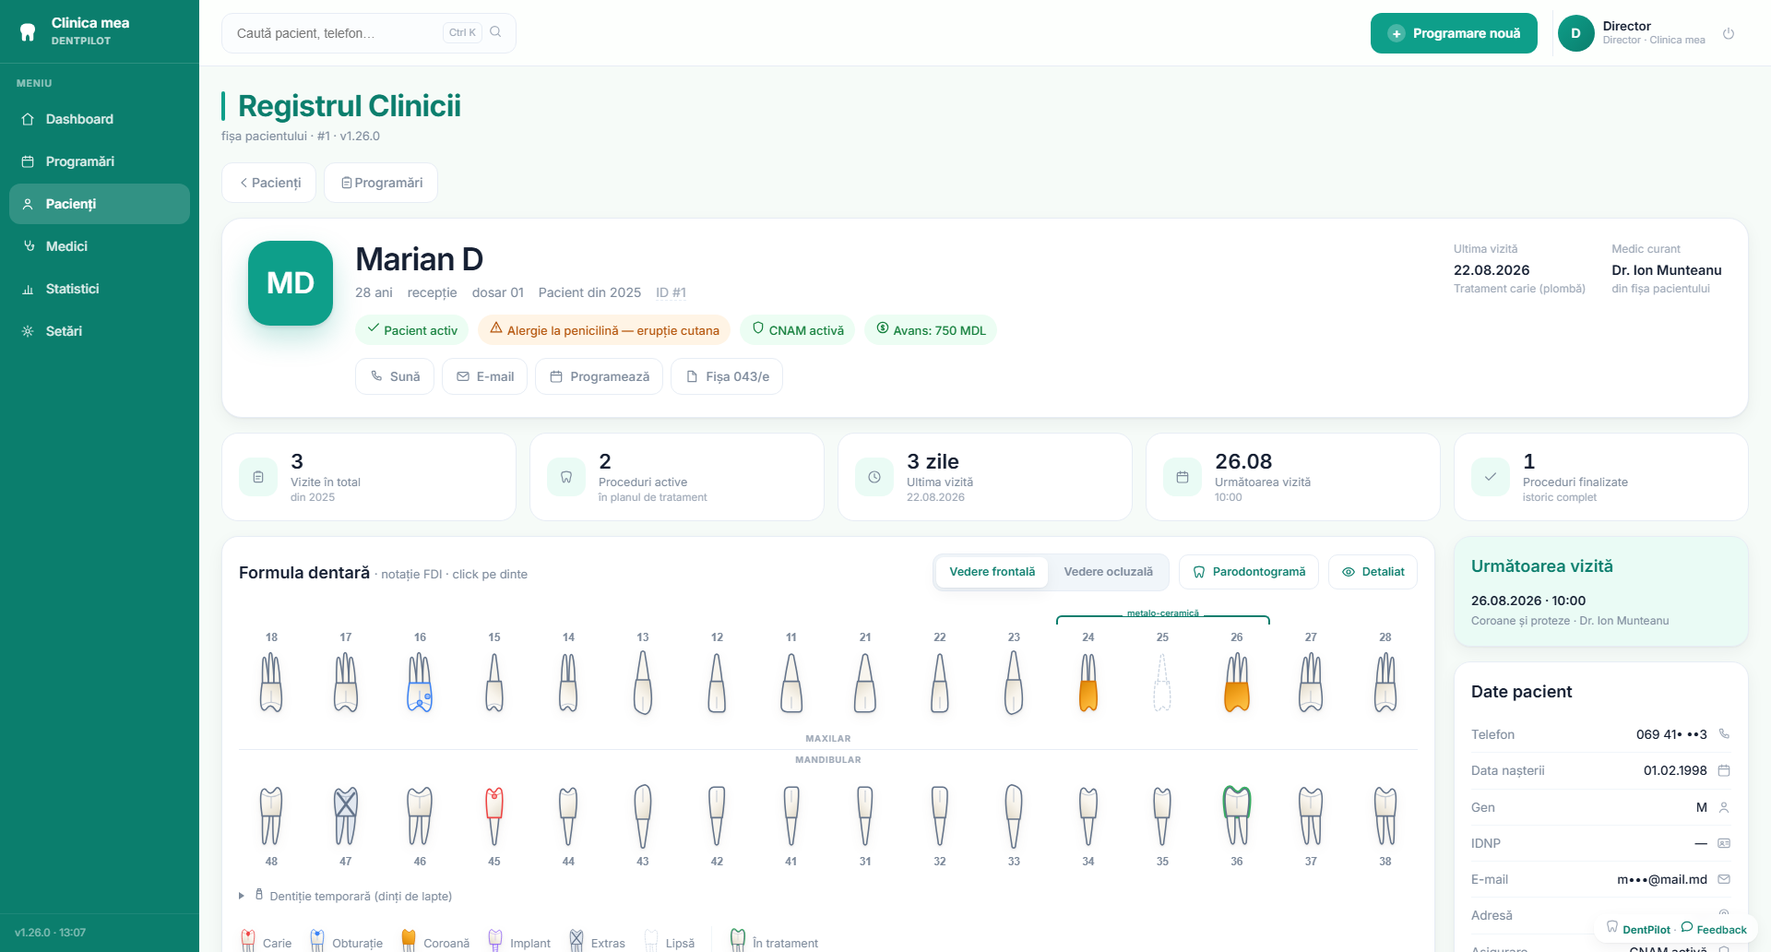
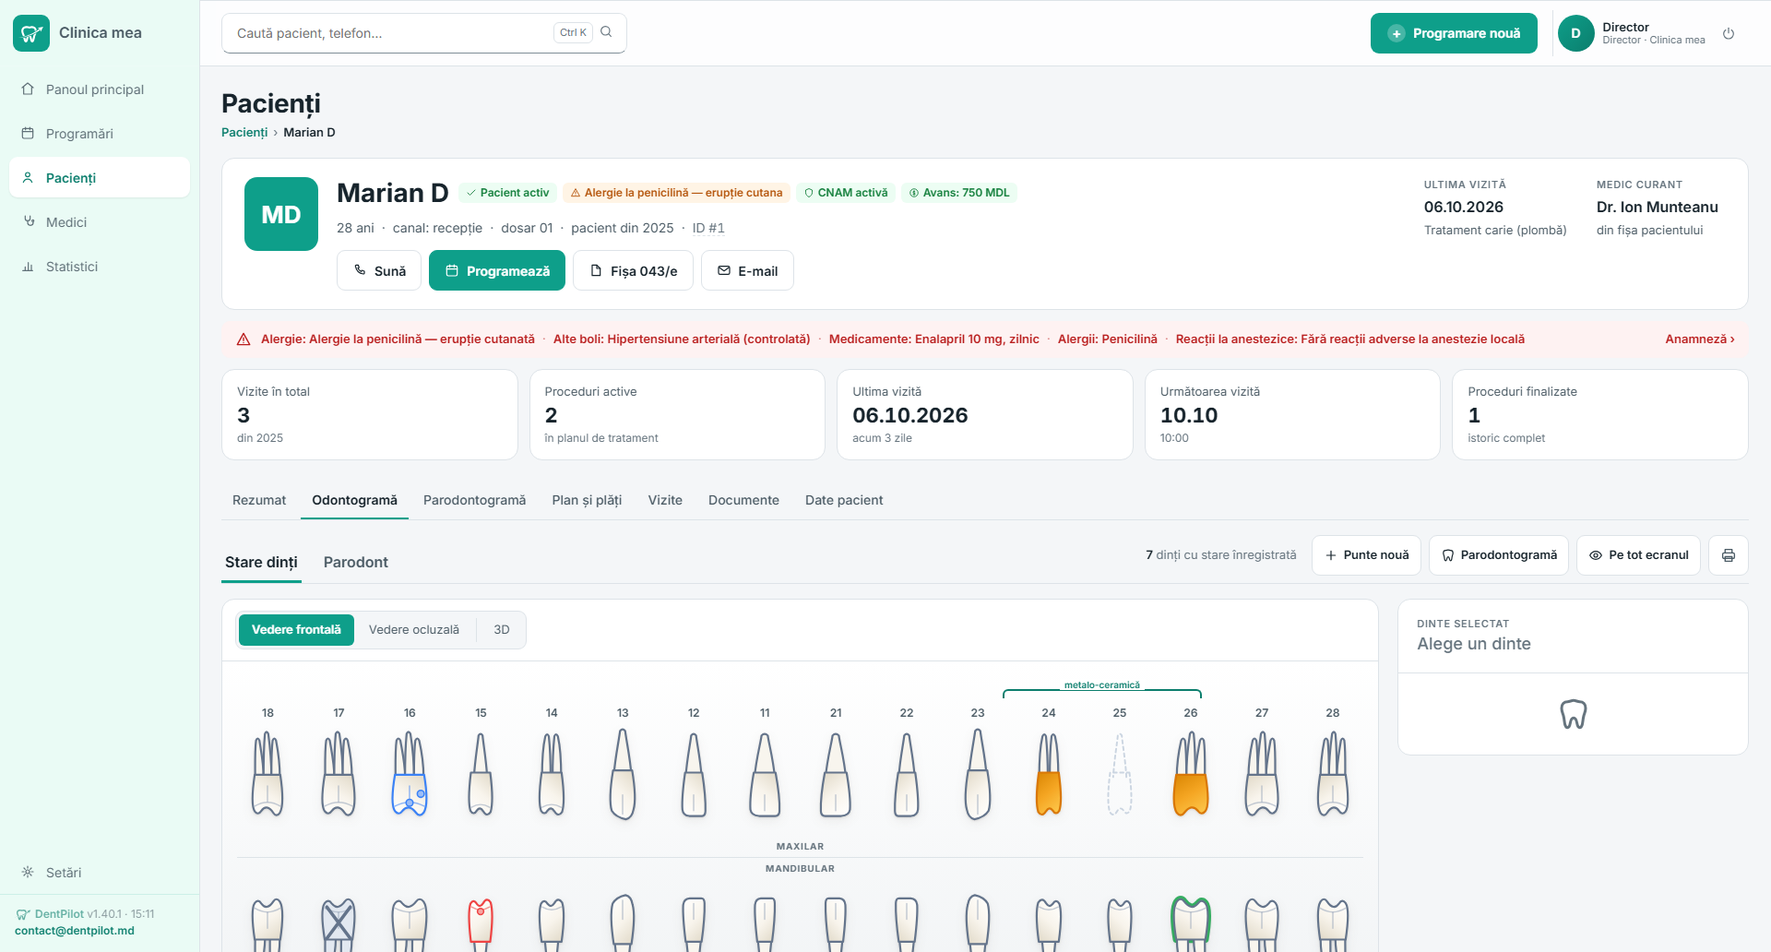
docs(readme): the public face catches up with 1.40.1 - new screenshots, data in ProgramData, the licence, the signed installer, DentPilot 2.0
The README showed v1.26.0 screenshots (25.08) and described the layout from
before 21.09: SQLite "next to the exe", a per-user installer that rejects
Program Files, "no account, no subscription", an hour-long demo, a dashboard
with tiles and sparklines that the 08.10 redesign removed.

- screenshots: all eight retaken on v1.40.1 by design/public-shots/stand.py
  (same two-month seed); the card is shot on its odontogram tab (the bridge
  the caption talks about), the list with its preview open
- desktop edition: Program Files + ProgramData, per-machine signed wizard
  shipped zipped, persistent window profile, single instance, update through
  the signed installer behind UAC (checked before the prompt), update server
- new section: licence and the clinic account (offline-checked signed file,
  trial month, 14 days of grace, read-only rather than locked, cloud/)
- dashboard, card tabs, statuses (programata until the call), stats screen,
  Excel export, live demo 30 min / pool of 12, React client in the stack,
  mutate.py next to test_structure, the client's own checks

README does not ship in the exe: no release needed.

diff --git a/README.md b/README.md
@@ -6,21 +6,26 @@ with an odontogram, treatment plans, an anamnesis questionnaire, payments and do
 and the medical form the Ministry of Health asks for (**043/e**) prints already filled in
 from the card.
 
-Two editions from one codebase: a **desktop app** (`DentPilot.exe`, SQLite next to the exe,
-one clinic, one Windows machine) and a **cloud** stack (Docker + PostgreSQL, one VPS
-serving many clinics). The desktop edition is the one clinics actually install — there is
-no account, no subscription and no server holding patient data.
+Two editions from one codebase: a **desktop app** (`DentPilot.exe`, SQLite in the clinic's
+own data folder, one clinic, one Windows machine — other workstations open the same journal
+over the clinic's network) and a **cloud** stack (Docker + PostgreSQL, one VPS serving many
+clinics). The desktop edition is the one clinics actually install. It runs on a monthly or
+yearly licence kept by a small separate service ([`cloud/`](cloud/README.md)) that knows
+the clinic, its computers and its payments and nothing about its patients: no server ever
+holds patient data.
 
 > Screenshots and `clinic.json` in this repo use synthetic data — invented patients,
 > invented doctors. Phone numbers, e-mail addresses and national ID numbers are masked in
-> the screenshots. One `clinic.json` = one clinic. The shots below are **v1.26.0**, taken
+> the screenshots. One `clinic.json` = one clinic. The shots below are **v1.40.1**, taken
 > on a staged clinic with two months of work behind it.
 
 ## Screenshots
 
-**Patient card** — odontogram, treatment plan, anamnesis and the activity feed, with
-medical alerts and insurance pinned in the header. Here 25 is missing and 24/26 carry the
-abutments of a metal-ceramic **bridge**, drawn as the brace a dentist would put on paper:
+**Patient card** — one header for the whole card (alerts, insurance, balance, the risks
+from the anamnesis in a red strip, the next visit) over seven tabs: summary, odontogram,
+periodontal chart, plan and payments, visits, documents, patient data. On the odontogram
+tab here 25 is missing and 24/26 carry the abutments of a metal-ceramic **bridge**, drawn
+as the brace a dentist would put on paper:
 
 ![Patient card](screenshots/patient-card.png)
 
@@ -31,16 +36,18 @@ the formula (`Co Cor` / `D A` / `Co Cor`) and as its own line under the grid:
 
 <img src="screenshots/fisa-043e.png" width="620" alt="Printed 043/e form">
 
-**Dashboard** — the day timeline: one column per doctor, every visit drawn to scale by
-duration and read in two lines (who, then when · how long · what), coloured by the kind of
-work with the status said in words next to it, the "now" line, tiles with a trend against
-yesterday and a 14-day sparkline each, the doctors on duty with their chair occupancy, and
-today's agenda in the right rail. The page keeps itself current without reloading:
+**Dashboard** — the day on one canvas: a column per doctor headed by that day's count, the
+hour the doctor is free from and a chair-occupancy bar; every visit drawn to scale by
+duration and read in three lines (who · when and how long and what · the status in words),
+coloured by the kind of work, with a no-show and acute pain in red; the "now" line; and in
+the right rail the month with busy days dotted and today's agenda, filtered by where the
+patient is — late, arrived, in the cabinet. The page keeps itself current without
+reloading:
 
 ![Dashboard](screenshots/admin-dashboard.png)
 
 **Patient list** — filters by doctor, status, channel and balance, derived statuses, a side
-preview with treatment-plan progress and CSV export:
+preview that opens a patient without leaving the list, and Excel export:
 
 ![Patient list](screenshots/patient-search.png)
 
@@ -71,22 +78,20 @@ Four views of the schedule:
 
 1. **Dashboard** — the day timeline: one column per doctor, every visit drawn to scale by
    its duration, a red "now" line on today, and overlapping visits split side by side so
-   nothing hides behind anything. A visit reads in **two lines** — the patient first, then
-   hour · duration · service — because the name is what the desk looks for; the status is
-   spelled out as a word next to its colour, and a patient marked *a venit* carries how
-   long they have been waiting (silent for the first five minutes, amber from fifteen: "a
-   venit and was called in at once" is not waiting, and a counter that shows zero on every
-   arrival stops being read). A free slot says what a click will do rather than showing a
-   bare "+"; a block is coloured by the *kind* of work, with a no-show and acute pain
-   overriding that to red; and the navigation rail alongside wears the clinic's own colour
-   end to end. Above it, day tiles with a trend against yesterday and a **14-day
-   sparkline** each, so a number reads as a trend rather than as today's accident; each
-   tile is clickable and opens the filtered list. Each doctor's card carries a
-   **chair-occupancy bar** —
-   busy minutes over that doctor's working minutes, the same formula and the same
-   `work_minutes()` the *Stats* page uses, so the two screens can never quote different
-   percentages for the same doctor. The right rail holds the month calendar and **today's
-   agenda** (the day as a time-ordered list, past entries dimmed).
+   nothing hides behind anything. A visit reads in **three lines** — the patient first,
+   then hour · duration · service, then the status as a word — because the name is what
+   the desk looks for, and a patient marked *a venit* carries how long they have been
+   waiting (silent for the first five minutes, amber from fifteen: "a venit and was called
+   in at once" is not waiting, and a counter that shows zero on every arrival stops being
+   read). A free hour says what a click will do (*+ Programare*) rather than showing a bare
+   "+"; a block is coloured by the *kind* of work, with a no-show and acute pain overriding
+   that to red; and the navigation rail alongside wears the clinic's own colour end to end.
+   Each doctor's header carries the day's count, the hour that doctor is free from and a
+   **chair-occupancy bar** — busy minutes over that doctor's working minutes, the same
+   formula and the same `work_minutes()` the *Stats* page uses, so the two screens can
+   never quote different percentages for the same doctor. The right rail holds the month
+   calendar with busy days dotted and **today's agenda**, split by the patient's flow:
+   *Întârzie* (late for the hour), *A venit*, *În cabinet*.
 2. **Doctor day view** — single-column schedule, add-form locked to that doctor.
 3. **Full grid** — all doctors side by side.
 4. **Week view** (`/admin/week`) — seven columns of compact chips with a per-week total.
@@ -95,7 +100,10 @@ Clicking **"+"** on any free slot opens a modal: *book a patient* or *leave a no
 the slot* ("lunch break", "seminar") — a note blocks a whole range. Clicking **any
 appointment** opens its card: patient info with age, an editable **reception comment**
 (allergies, call-back notes — never visible to patients), a link to the full patient card,
-and four status buttons: *arrived*, *finished*, *no-show*, *cancel*.
+and the status buttons the visit's current status allows — *arrived*, *in the cabinet*,
+*finished*, *no-show*, *cancel*; the same set opens on a right click over any visit. A
+booking reads *programată* until the call to the patient is marked as answered, and only then
+*confirmată*: "confirmed" is something the patient said, not something the form assumed.
 
 *Arrived* keeps the slot occupied — moving a patient into the cabinet never frees the hour.
 Returning a cancelled visit to an active status is refused if the interval has meanwhile
@@ -115,14 +123,15 @@ rendered by the server would make the fingerprint differ on every poll and bring
 flicker back through the back door. And inline scripts that carry page data are marked
 `data-live` and declare `var`, not `const`: the swap re-executes them, and a repeated
 `const` is a silent `SyntaxError` that would stop a freshly arrived appointment from
-opening.
+opening. The React screens of DentPilot 2.0 keep the same rule on a channel that carries
+data rather than an HTML fragment ([`docs/dentpilot-2/live-contract.md`](docs/dentpilot-2/live-contract.md)).
 
 ### Patient list
 
 `/admin/search` — the clinic's whole base in one working table: avatar and name, phone,
 birth date, doctor, last visit (with the next one flagged in green), balance, status,
 pages. Filters by doctor, status, channel and balance; sorting by name or by last visit;
-the current selection can be exported to CSV or previewed in a side panel that shows the
+the current selection can be exported to Excel (or CSV) or previewed in a side panel that shows the
 treatment-plan progress, alerts and documents without leaving the list. Search by name or
 phone digits (any format), e-mail or file number, ignoring Romanian diacritics and case
 ("Balan" finds "Bălan"). It also understands **a birth date the way it is dictated at the
@@ -147,7 +156,8 @@ fallback never reads as an assignment.
 `/admin/patient/{id}`, opened from search or from any appointment. An avatar with age,
 channel and file number; badges assembled from data already there (active / archived,
 medical alerts, insurance, implant count taken straight from the odontogram); a KPI row;
-then a two-column workspace.
+then seven tabs, each with its own address (`?tab=odonto`, `?tab=plan`…), so a link or a
+reload lands on the same tab.
 
 - **Odontogram** — 32 permanent teeth in FDI notation (upper 18→28, lower 48→38) plus the
   **primary dentition** (55→65, 85→75) on a second arch that opens on demand and unfolds by
@@ -267,16 +277,18 @@ then a two-column workspace.
 
 ### Analytics
 
-`/admin/stats`, director-only: KPI tiles, each with a sparkline of its own series and a
-trend **against the preceding period of the same length** (a week compares to the previous
-week, a day to yesterday — "vs. last month" for an arbitrary range would be a lie); a
-day-by-day line chart with axis labels that thin out on long ranges; booking sources as a
-donut — only the channels the program actually knows, nothing invented; average chair
-occupancy as a half-circle gauge plus a per-doctor table; **money taken at the desk shown
-separately from estimated revenue**, the latter explicitly labelled as a price-list estimate
-rather than accounting; top services with value bars; and a recent-activity feed signed with
-the *name* of the logged-in employee. All charts are inline SVG from `core/charts.py` — the
-program works offline, so a chart library would have to be bundled into the exe wholesale.
+`/admin/stats`, director-only, for today, seven days, this month, thirty days or any
+interval: four KPI cards — money taken, appointments, attendance, chair occupancy — each
+with a trend **against the preceding period of the same length** (a week compares to the
+previous week, a day to yesterday — "vs. last month" for an arbitrary range would be a
+lie); columns by day or by week, switchable between appointments and money, with only the
+tallest one labelled and the rest on hover; **money taken at the desk shown separately from
+estimated revenue**, the latter explicitly labelled as a price-list estimate rather than
+accounting, with the split by payment method and what the no-shows cost; a per-doctor table
+of attendance and occupancy; top services; a recent-activity feed signed with the *name* of
+the logged-in employee; and an Excel export. No chart library: the program works offline, so
+one would have to be bundled into the exe wholesale, and the figures are plain markup in the
+clinic's own colours.
 
 ### Accounts and roles
 
@@ -312,9 +324,9 @@ second copy of the program would come up with a second, empty database, and both
 perfectly healthy while the appointment booked at reception failed to appear in the surgery.
 The page shows a QR to `http://<lan-ip>:port`
 and says plainly what this is not: it does not reach the clinic from home. The firewall rule
-is created by the program itself through a UAC prompt, because the installer is deliberately
-per-user and cannot run `netsh`; its result is read from the **exit code**, never by parsing
-the localised text netsh prints.
+is created by the program itself, from a button on that page, through a UAC prompt the
+director confirms; its result is read from the **exit code**, never by parsing the
+localised text netsh prints.
 
 The `secure` flag is deliberately absent from the session cookie here: over plain HTTP on a
 LAN it would break login outright, and the clinic's Wi-Fi encrypts one layer below.
@@ -387,7 +399,8 @@ The run prints how many checks it did and how long it took — a figure written 
 would be stale by the next feature, and the number only ever grows. Standard library only,
 no pytest and no httpx. `.venv-desktop` is the *build* environment, and whatever is
 installed there eventually ends up inside the exe; tests must also run where nobody can
-install packages.
+install packages. The React client has its own checks in `frontend/`: `npm run typecheck`,
+`npm run lint` and `npm test` (vitest).
 
 Each suite starts **its own server on a free port with its own temporary database** (Windows
 happily lets a second process bind a busy port and then routes requests to the first one, so
@@ -401,7 +414,9 @@ holds the layout rules that otherwise live only in prose: no `__file__` outside 
 modules allowed to know where the program sits, no module name computed from `__package__`,
 no role compared as a string instead of asking the permission table, no write to `auth.json`
 without re-recording its fingerprint. Those are the mistakes that break the *packaged* exe
-while leaving a source run perfectly green.
+while leaving a source run perfectly green. Every such rule is proven by
+`tests/mutate.py`, which breaks it in a copy of the tree and demands red: a guard that
+cannot fail is not a guard.
 
 `tests/smoke_exe.py` is separate and answers a different question — does the **built**
 program open its pages. `/health` replies without a single file on disk, so it never notices
@@ -410,8 +425,10 @@ a lost `--add-data` or a broken path to `static`; those break only in the exe, a
 
 ## Desktop edition
 
-A single `DentPilot.exe` (PyInstaller, ~30 MB): native app window (WebView2), SQLite next to
-the exe, no ports open to the outside. Build with `Build-Desktop.ps1`.
+A single code-signed `DentPilot.exe` (PyInstaller, ~35 MB): native app window (WebView2)
+with a persistent profile, SQLite in the clinic's data folder (see *Installer* below), no
+ports open to the outside. A second launch brings the open window forward instead of
+starting a second copy over the same database. Build with `Build-Desktop.ps1`.
 
 - **First launch writes an empty clinic** — one placeholder doctor, six generic services,
   Mon–Fri 07:00–18:00, Sat 07:00–14:00, no prices borrowed from someone else's list. The demo
@@ -434,18 +451,25 @@ the exe, no ports open to the outside. Build with `Build-Desktop.ps1`.
   only values the clinic can re-enter are ever encrypted this way.
 - **Automatic backup on every start** into `data\backups\` through the SQLite backup API —
   consistent even after a crash with WAL — keeping the last 14.
-- **One-click self-update** from GitHub Releases, verified before the swap and reversible if
-  it fails — see *Design decisions*.
+- **One-click update** from GitHub Releases, with the release's own signed installer behind
+  a UAC prompt, checked before that prompt ever appears — see *Design decisions*.
 
 **Installer**: `Build-Installer.ps1` wraps that exe into a single
 `DentPilot-Setup-<version>.exe` (Inno Setup, [`installer/DentPilot.iss`](installer/DentPilot.iss))
-— a normal Windows wizard, entirely in Romanian, per-user and x64, no administrator rights.
-DentPilot keeps `clinic.json`, `dental.env` and `data\` next to the exe, which decides where
-it may be installed: the wizard probes the chosen folder by actually writing to it (Program
-Files is rejected), and the default is the **shared** `C:\Users\Public\DentPilot` rather than
-a user profile — a clinic where two shifts log in under different Windows accounts must not
-end up with two separate databases. Upgrades reuse the existing folder: the database is never
-touched, and uninstalling removes only the program, its shortcuts and the update leftovers.
+— a normal Windows wizard, entirely in Romanian, x64, installed per machine. The exe, the
+wizard and its uninstaller are signed (Certum), so the UAC prompt and SmartScreen name a
+publisher instead of "unknown". A release carries the wizard **zipped**: the updater picks
+its asset by name, and a second `.exe` next to `DentPilot.exe` would sort first and be
+downloaded as the program.
+
+Program and data are kept apart. The program goes to `C:\Program Files\DentPilot` and is
+read-only while it runs; the clinic's `clinic.json`, `dental.env` and `data\` live in
+`C:\ProgramData\DentPilot`, a folder shared by every Windows account on the machine — a
+clinic where two shifts log in under different accounts must not end up with two separate
+databases. The launcher hands that folder to the app before it starts, and recognises an
+install from before September 2026, when the data still sat next to the exe, rather than
+guessing. Upgrades never touch the data folder, and uninstalling removes only the program,
+its shortcuts and the update leftovers.
 
 **Update channels.** Clinics stay on `stable` and see only published releases.
 `DENTART_CHANNEL=beta` in `dental.env` makes one machine see pre-releases ahead of the
@@ -453,6 +477,27 @@ clinics, **with no credential at all**; `draft` additionally needs a GitHub toke
 access. A non-stable machine says so in Settings, so a canary box cannot be mistaken for a
 clinic's install. Why it is built this way: *Design decisions*. Release procedure:
 [RELEASE.md](RELEASE.md).
+
+### Licence and the clinic account
+
+The desktop edition runs on a **signed licence file**, checked offline by the program
+against a public key compiled into it — the clinic's journal never depends on a server
+being up. A new install asks the licence service for a free month by itself; a new computer
+of a clinic the service already knows is activated with a code sent to the clinic's e-mail,
+and the clinic accepts the terms on the activation page. A month or a year is paid by bank
+transfer.
+
+When a paid period ends without renewal, fourteen days of grace follow, and after them the
+program turns **read-only rather than locked**: no new appointments or visit records, while
+the card index, printing (043/e, the consent sheet, the periodontal chart), the patient
+export and the backup stay open. The records belong to the clinic, and it has to be able
+to read them and hand them over whatever happens to the licence.
+
+The service itself is [`cloud/`](cloud/README.md) — a separate program with its own tests
+and no imports from `bot/`. It keeps the clinic account, the licences, the computers each
+clinic runs on and the payments, plus a cabinet at `cloud.dentpilot.md` where the clinic
+signs in with Google or with a one-time code by e-mail; there is no password to leak. It has
+no route that accepts or returns medical data.
 
 ## Cloud edition — quick start
 
@@ -470,7 +515,9 @@ retention) — the restore path is verified by a fire drill into a throwaway con
 
 The "Try the demo" button on the website opens the *real* desktop edition (SQLite) behind a
 small gate: every visitor gets a private copy of a fictional clinic, seeded from "today",
-reset after an hour. The program runs with `DENTART_DEMO=1` (`bot/app/core/demo.py`): one
+for thirty minutes, out of a pool of twelve. A copy goes only to a browser tab's own
+navigation, so link previews and crawlers do not burn the pool. The program runs with
+`DENTART_DEMO=1` (`bot/app/core/demo.py`): one
 flag, one list of closed routes (update, database key, backup/restore, PIN and users, bot
 token, LAN, licence) that closes pages, JSON and the settings tiles alike, and a banner on
 every screen. The gate, the seed and the image live in [`demo/`](demo/README.md), outside
@@ -524,6 +571,13 @@ to start without `ADMIN_KEY` (HMAC cookie).
 
 - FastAPI + Uvicorn; PostgreSQL 16 + asyncpg in the cloud, SQLite + aiosqlite on the desktop
   — one schema, two dialects, additive migrations.
+- **DentPilot 2.0** (since September 2026): the screens are a React + TypeScript client
+  ([`frontend/`](frontend/), Vite), built into the exe as one bundle and moved over one
+  screen at a time on top of the same engine. The server decides per clinic
+  (`clinic.json → ui.react`), and `?ui=legacy` still returns the server-rendered page of a
+  screen for one request. JSON routes under `/api/` have their own guard that answers
+  401/403 instead of redirecting, so a fetch can never mistake the login form for success.
+  The 3D odontogram is three.js on the same server data.
 - The dialog engine is channel-agnostic (`engine.handle()`): the web chat and the Telegram
   adapter (aiogram, inline keyboards; enabled by setting `TELEGRAM_TOKEN`) are two thin
   adapters over the same engine and database.
@@ -631,6 +685,16 @@ exe in silence. The swap moves the running program aside and puts it back if the
 does not land, so a failed update is distinguishable from a deleted one. The asset name is
 matched exactly, because the installer sitting next to it in the same release would otherwise
 be pulled in as the program.
+
+Moving the program to Program Files took that swap away from the clinic's own Windows
+account: replacing a file there needs administrator rights. So the update became the
+release's **signed installer** behind a UAC prompt, and the prompt is the last step rather
+than the first — size, SHA-256 and the Authenticode signature against the one publisher
+the program trusts are checked *before* Windows asks anybody anything, so a clinic is never
+asked to elevate a file the program has not already recognised. Which release to fetch is
+asked first of a small update server; its answer is checked like any other input (this
+repository, the same tag, the exact file name, a newer version), and when the server is
+silent the program goes to GitHub as before.
 
 Migrations are additive by rule — new columns, never a rewrite — because the desktop edition
 upgrades in place on a machine nobody administers, and there is no way to roll a clinic back
